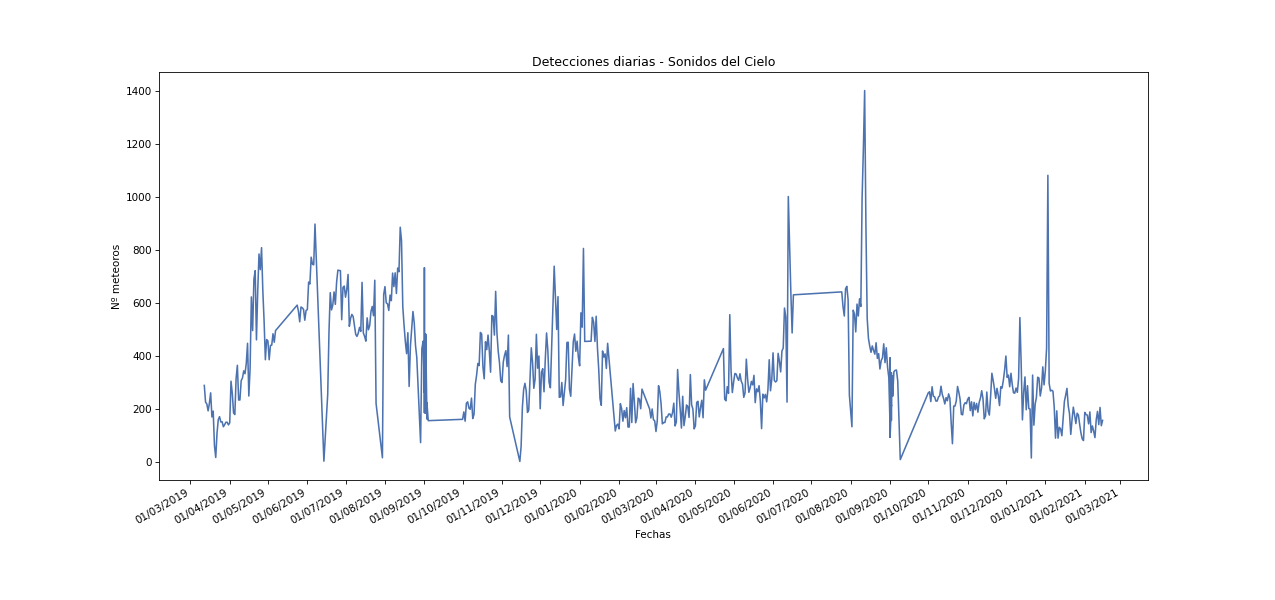
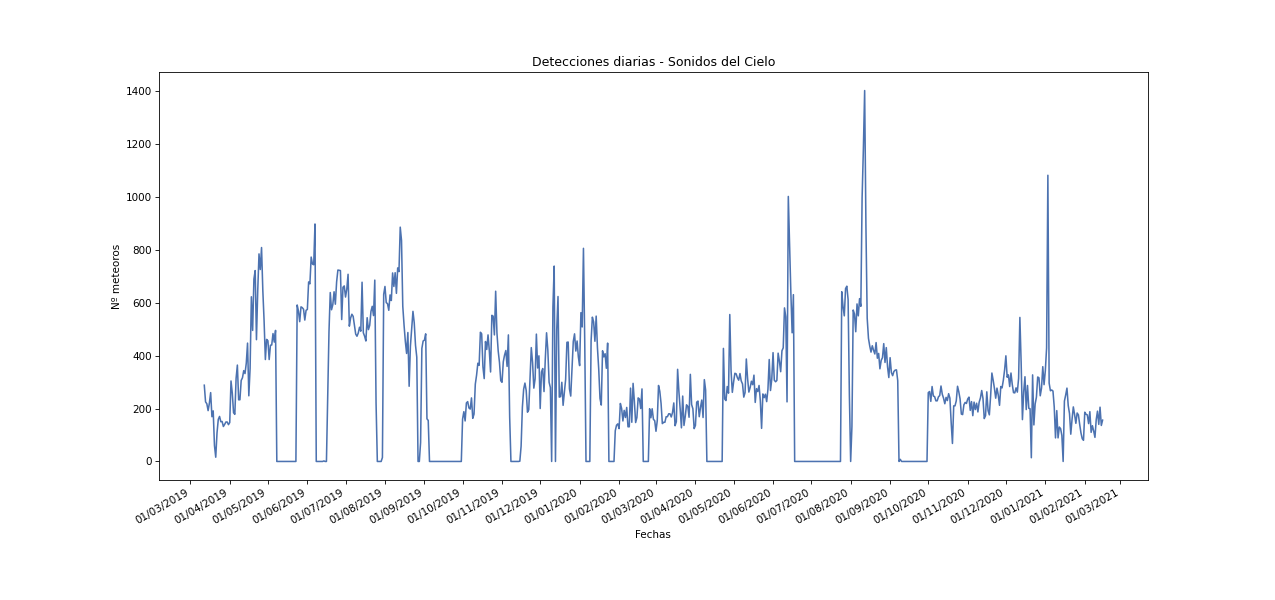
valores nulos en fechas sin datos
se ha incluido en los csv y en los gráficos las fechas en las que no se han recogido datos, junto con un valor 0

diff --git a/imo_dates_average.py b/imo_dates_average.py
@@ -24,6 +24,14 @@ df['avg mets per station'] = df['total meteors'] / df['stations'] # Media de met
 
 df = df[['date','stations','total meteors','avg mets per station']] # Reordenar
 
+# Rellenar fechas que faltan con 0
+ind = pd.date_range(min(df['date']), max(df['date'])) # serie que cubre todas las fechas en el rango disponible
+df.set_index('date', inplace=True) # index = columna date
+df = df[~df.index.duplicated()] # eliminar duplicados
+df = df.reindex(ind, fill_value=0) # rellenar con 0 fechas sin datos
+df = df.reset_index()
+df['date'] = df['index']
+df = df[['date','stations','total meteors','avg mets per station']]
 
 # Exporta como csv
 df.to_csv('results\csvs\imo_meteors_average.csv', index=False)

diff --git a/sdc_clear_daily.py b/sdc_clear_daily.py
@@ -73,6 +73,14 @@ df['date'] = pd.to_datetime(df['date'], format='%d-%m-%Y')
 # Eliminar líneas sin datos de meteoros
 df.dropna(inplace=True)
 
+# Rellenar fechas que faltan con 0
+ind = pd.date_range(min(df['date']), max(df['date'])) # serie que cubre todas las fechas en el rango disponible
+df.set_index('date', inplace=True) # index = columna date
+df = df[~df.index.duplicated()] # eliminar duplicados
+df = df.reindex(ind, fill_value=0) # rellenar con 0 fechas sin datos
+df = df.reset_index()
+df['date'] = df['index']
+df = df[['date','meteors']]
+
 # Exportar
 df.to_csv('results\csvs\sdc_clear_daily.csv', index=False)
-print(df.head(10))

diff --git a/graphs.py b/graphs.py
@@ -95,6 +95,6 @@ def create_comparative_graph(csv1, csv2, style = 'seaborn-deep', title='Deteccio
 # create_metspd_graph(imo)
 
 # Test - Comparativa SdC vs IMO
-sdc = Metspd_csv(name='sdc_clear_daily')
-imo = Metspd_csv(name='imo_meteors_average', mets_col_name='avg mets per station')
-create_comparative_graph(sdc,imo)
+# sdc = Metspd_csv(name='sdc_clear_daily')
+# imo = Metspd_csv(name='imo_meteors_average', mets_col_name='avg mets per station')
+# create_comparative_graph(sdc,imo)
